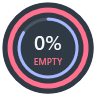
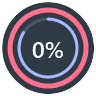
Simplify widget and refine rounded tray menu

diff --git a/src/CodexUsageTracker.App/WidgetWindow.xaml b/src/CodexUsageTracker.App/WidgetWindow.xaml
@@ -3,12 +3,9 @@
     <Button.Clip><EllipseGeometry Center="46,46" RadiusX="46" RadiusY="46"/></Button.Clip>
     <Button.Template><ControlTemplate TargetType="Button"><ContentPresenter/></ControlTemplate></Button.Template>
     <Grid Width="92" Height="92">
-      <Ellipse Fill="{DynamicResource GlassStrongBrush}" Stroke="{DynamicResource BorderBrush}" StrokeThickness="0.5"/>
+      <Ellipse Fill="{DynamicResource GlassStrongBrush}"/>
       <local:QuotaRing x:Name="Ring" Five="{Binding FiveValue}" Week="{Binding WeekValue}" FiveBrush="{Binding FiveBrush}" WeekBrush="{Binding WeekBrush}" FiveExhausted="{Binding FiveExhausted}" WeekExhausted="{Binding WeekExhausted}" Margin="3"/>
-      <StackPanel VerticalAlignment="Center" HorizontalAlignment="Center">
-        <TextBlock Text="{Binding FiveRemaining}" FontWeight="SemiBold" FontSize="20" HorizontalAlignment="Center"/>
-        <TextBlock Text="{Binding WidgetStatus}" FontSize="9" FontWeight="SemiBold" Foreground="{Binding OverallBrush}" HorizontalAlignment="Center"/>
-      </StackPanel>
+      <TextBlock Text="{Binding FiveRemaining}" FontWeight="Medium" FontSize="23" VerticalAlignment="Center" HorizontalAlignment="Center"/>
     </Grid>
   </Button>
 </Window>

diff --git a/src/CodexUsageTracker.App/TrayMenuRenderer.cs b/src/CodexUsageTracker.App/TrayMenuRenderer.cs
@@ -5,6 +5,19 @@ namespace CodexUsageTracker.App;
 
 internal sealed class TrayMenuRenderer : Forms.ToolStripProfessionalRenderer
 {
+    private static bool Dark => ColorFor("TextBrush").R > 128;
+    internal static Drawing.Color Background => Dark ? Drawing.Color.FromArgb(32, 32, 32) : Drawing.Color.FromArgb(250, 250, 250);
+    internal static Drawing.Color Foreground => Dark ? Drawing.Color.FromArgb(242, 242, 242) : Drawing.Color.FromArgb(30, 30, 30);
+    internal static Drawing.Drawing2D.GraphicsPath Rounded(Drawing.Rectangle bounds, int radius)
+    {
+        var path = new Drawing.Drawing2D.GraphicsPath();
+        var diameter = radius * 2;
+        path.AddArc(bounds.Left, bounds.Top, diameter, diameter, 180, 90);
+        path.AddArc(bounds.Right - diameter, bounds.Top, diameter, diameter, 270, 90);
+        path.AddArc(bounds.Right - diameter, bounds.Bottom - diameter, diameter, diameter, 0, 90);
+        path.AddArc(bounds.Left, bounds.Bottom - diameter, diameter, diameter, 90, 90);
+        path.CloseFigure(); return path;
+    }
     internal static Drawing.Color ColorFor(string resource)
     {
         var color = ((SolidColorBrush)Application.Current.FindResource(resource)).Color;
@@ -13,24 +26,49 @@ internal sealed class TrayMenuRenderer : Forms.ToolStripProfessionalRenderer
 
     protected override void OnRenderToolStripBackground(Forms.ToolStripRenderEventArgs e)
     {
-        using var brush = new Drawing.SolidBrush(ColorFor("GlassStrongBrush"));
-        e.Graphics.FillRectangle(brush, e.AffectedBounds);
+        e.Graphics.SmoothingMode = Drawing.Drawing2D.SmoothingMode.AntiAlias;
+        using var brush = new Drawing.SolidBrush(Background);
+        using var shape = Rounded(e.ToolStrip.ClientRectangle, 10 * e.ToolStrip.DeviceDpi / 96);
+        e.Graphics.FillPath(brush, shape);
     }
     protected override void OnRenderMenuItemBackground(Forms.ToolStripItemRenderEventArgs e)
     {
         if (!e.Item.Selected || !e.Item.Enabled) return;
-        using var brush = new Drawing.SolidBrush(ColorFor("ButtonHoverBrush"));
-        e.Graphics.FillRectangle(brush, new Drawing.Rectangle(3, 1, e.Item.Width - 6, e.Item.Height - 2));
+        using var brush = new Drawing.SolidBrush(Dark ? Drawing.Color.FromArgb(53, 53, 53) : Drawing.Color.FromArgb(233, 233, 233));
+        using var shape = Rounded(new Drawing.Rectangle(2, 1, e.Item.Width - 4, e.Item.Height - 2), 5);
+        e.Graphics.SmoothingMode = Drawing.Drawing2D.SmoothingMode.AntiAlias;
+        e.Graphics.FillPath(brush, shape);
     }
     protected override void OnRenderItemText(Forms.ToolStripItemTextRenderEventArgs e)
     {
-        e.TextColor = ColorFor(e.Item.Enabled ? "TextBrush" : "MutedBrush");
-        Forms.TextRenderer.DrawText(e.Graphics, e.Text, e.TextFont, e.TextRectangle, e.TextColor, e.TextFormat);
+        e.TextColor = e.Item.Enabled ? Foreground : Dark ? Drawing.Color.FromArgb(163, 163, 163) : Drawing.Color.FromArgb(103, 103, 103);
+        var bounds = e.TextRectangle;
+        var format = e.TextFormat;
+        if (e.Item is Forms.ToolStripMenuItem item && !string.IsNullOrEmpty(item.ShortcutKeyDisplayString) && e.Text == item.ShortcutKeyDisplayString)
+        {
+            bounds = new Drawing.Rectangle(10, bounds.Top, (e.ToolStrip?.ClientSize.Width ?? e.Item.Width) - 44, bounds.Height);
+            format = Forms.TextFormatFlags.Right | Forms.TextFormatFlags.VerticalCenter | Forms.TextFormatFlags.SingleLine;
+        }
+        else bounds.Offset(8, 0);
+        Forms.TextRenderer.DrawText(e.Graphics, e.Text, e.TextFont, bounds, e.TextColor, format);
     }
     protected override void OnRenderSeparator(Forms.ToolStripSeparatorRenderEventArgs e)
     {
-        using var pen = new Drawing.Pen(ColorFor("BorderBrush"));
-        e.Graphics.DrawLine(pen, 12, e.Item.Height / 2, e.Item.Width - 12, e.Item.Height / 2);
+        using var pen = new Drawing.Pen(Dark ? Drawing.Color.FromArgb(64, 64, 64) : Drawing.Color.FromArgb(222, 222, 222));
+        e.Graphics.DrawLine(pen, 2, e.Item.Height / 2, e.Item.Width - 2, e.Item.Height / 2);
     }
     protected override void OnRenderToolStripBorder(Forms.ToolStripRenderEventArgs e) { }
+}
+
+internal sealed class RoundedTrayMenu : Forms.ContextMenuStrip
+{
+    protected override void OnSizeChanged(EventArgs e)
+    {
+        base.OnSizeChanged(e);
+        if (Width < 20 || Height < 20) return;
+        using var shape = TrayMenuRenderer.Rounded(ClientRectangle, 10 * DeviceDpi / 96);
+        var old = Region;
+        Region = new Drawing.Region(shape);
+        old?.Dispose();
+    }
 }

diff --git a/src/CodexUsageTracker.App/TrackerController.cs b/src/CodexUsageTracker.App/TrackerController.cs
@@ -17,7 +17,7 @@ public sealed class TrackerController : IDisposable
     private readonly ResetRefreshSchedule resetRefresh = new();
     private string lastTrayState = "";
     private readonly Forms.ToolStripMenuItem trayQuota;
-    private readonly Forms.ToolStripMenuItem trayStatus;
+    private readonly Forms.ToolStripMenuItem trayWeek;
     private readonly Forms.ToolStripMenuItem trayFloating;
     private readonly Forms.NotifyIcon tray;
     private readonly DispatcherTimer timer;
@@ -38,17 +38,18 @@ public sealed class TrackerController : IDisposable
         repository = new UsageRepository(Path.Combine(dataDirectory, "usage.db"));
         widget = new WidgetWindow(this); details = new DetailsWindow(this);
         tray = new Forms.NotifyIcon { Text = "Codex Usage Tracker", Visible = true, Icon = Drawing.SystemIcons.Information };
-        var menu = new Forms.ContextMenuStrip
+        var menu = new RoundedTrayMenu
         {
             Renderer = new TrayMenuRenderer(), ShowImageMargin = false,
-            Font = new Drawing.Font("Segoe UI", 10), Padding = new Forms.Padding(6),
+            Font = new Drawing.Font("Segoe UI", 9), Padding = new Forms.Padding(8),
             MinimumSize = new Drawing.Size(260, 0)
         };
-        trayQuota = new Forms.ToolStripMenuItem("Codex quota", null, (_, _) => ShowDetails());
-        trayStatus = new Forms.ToolStripMenuItem("Connecting…") { Enabled = false };
-        menu.Items.Add(trayQuota); menu.Items.Add(trayStatus);
+        menu.Items.Add(new Forms.ToolStripMenuItem("Quota remaining") { Enabled = false });
+        trayQuota = new Forms.ToolStripMenuItem("5-hour", null, (_, _) => ShowDetails());
+        trayWeek = new Forms.ToolStripMenuItem("Weekly", null, (_, _) => ShowDetails());
+        menu.Items.Add(trayQuota); menu.Items.Add(trayWeek);
         menu.Items.Add(new Forms.ToolStripSeparator());
-        menu.Items.Add("Usage overview", null, (_, _) => ShowDetails());
+        menu.Items.Add("Open usage details", null, (_, _) => ShowDetails());
         menu.Items.Add("Refresh now", null, async (_, _) => await RefreshAsync());
         menu.Items.Add("Settings", null, (_, _) => ShowSettings());
         trayFloating = new Forms.ToolStripMenuItem("Hide floating circle", null, (_, _) =>
@@ -57,7 +58,7 @@ public sealed class TrackerController : IDisposable
         menu.Items.Add(new Forms.ToolStripSeparator());
         menu.Items.Add("Quit", null, (_, _) => Application.Current.Shutdown());
         tray.ContextMenuStrip = menu;
-        foreach (Forms.ToolStripItem item in menu.Items) item.Padding = new Forms.Padding(9, 7, 9, 7);
+        foreach (Forms.ToolStripItem item in menu.Items) item.Padding = item is Forms.ToolStripSeparator ? new Forms.Padding(0, 4, 0, 4) : new Forms.Padding(10, 5, 10, 5);
         menu.Opening += (_, _) => UpdateTrayMenu();
         tray.MouseClick += (_, e) => { if (e.Button == Forms.MouseButtons.Left) ToggleDetails(); };
         timer = new DispatcherTimer { Interval = TimeSpan.FromSeconds(1) };
@@ -165,11 +166,11 @@ public sealed class TrackerController : IDisposable
     }
     private void UpdateTrayMenu()
     {
-        trayQuota.Text = $"5h  {ViewModel.FiveRemaining}    ·    Week  {ViewModel.WeekRemaining}";
-        trayStatus.Text = $"{ViewModel.WidgetStatus}  ·  {ViewModel.Status}";
+        trayQuota.ShortcutKeyDisplayString = ViewModel.FiveRemaining;
+        trayWeek.ShortcutKeyDisplayString = ViewModel.WeekRemaining;
         trayFloating.Text = Settings.FloatingWidget ? "Hide floating circle" : "Show floating circle";
         if (tray.ContextMenuStrip is { } menu)
-        { menu.BackColor = TrayMenuRenderer.ColorFor("GlassStrongBrush"); menu.ForeColor = TrayMenuRenderer.ColorFor("TextBrush"); }
+        { menu.BackColor = TrayMenuRenderer.Background; menu.ForeColor = TrayMenuRenderer.Foreground; }
     }
     [DllImport("user32.dll")] [return: MarshalAs(UnmanagedType.Bool)] private static extern bool DestroyIcon(IntPtr handle);
     public void ToggleDetails() { if (details.IsVisible) details.Hide(); else ShowDetails(); }

diff --git a/README.md b/README.md
@@ -2,7 +2,7 @@
 
 A small, native Windows companion for keeping an eye on your remaining Codex quota. Built with **C# · .NET 8 · WPF** for **Windows 10/11 x64**.
 
-The floating circle stays above other windows while Codex is running. Click it for the detailed panel; drag it to move. The outer teal ring shows five-hour quota remaining, the inner purple ring shows weekly quota remaining, and the center shows the five-hour percentage. The system tray remains available when the circle is hidden.
+The floating circle stays above other windows while Codex is running. Click it for the detailed panel; drag it to move. The outer teal ring shows five-hour quota remaining, the inner purple ring shows weekly quota remaining, and the center shows the five-hour percentage. The circle shows only the percentage and rings, without a status caption. The rounded, neutral tray menu remains available when the circle is hidden.
 
 <img src="docs/images/widget.png" width="96" alt="Circular quota widget using synthetic preview data" />
 <img src="docs/images/details.png" width="420" alt="Detailed quota panel using synthetic preview data" />
@@ -13,12 +13,12 @@ Screenshots use clearly marked synthetic preview values, not account data.
 
 - Always-on-top circular widget with a clean circular edge and no clipped shadow; click or keyboard-activate to open details. Hold and drag anywhere on the circle to move it; the position is saved on release. Dragging never opens the details panel.
 - Borderless translucent panels with 40% desktop visibility, rounded glass cards, and light/dark palettes. A single 26-DIP clip keeps the background and content corners aligned; text and controls retain their own opacity.
-- Theme-aware system tray menu with quota summary, status, refresh, visibility toggle, settings, and quit; a clear status ring replaces the miniature double-ring icon.
+- Theme-aware system tray menu with aligned quota values, refresh, visibility toggle, settings, and quit; a clear status ring replaces the miniature double-ring icon.
 - By default the circle is visible only while a Codex process runs; tray-only and always-visible modes are configurable.
 - Five-hour and weekly **remaining** quota, used percentages, and reset countdowns.
 - Pace estimate comparing quota consumed with elapsed time in each reported window.
 - Local SQLite history, retained for **seven days**; chart leaves gaps across missing readings and resets.
-- Configurable warning and critical alerts, defaulting to **25%** and **10%** remaining. Rings and bars turn amber/red; exhausted quota keeps a full red outline and an EMPTY label. Persistent panel warnings remain visible even if Windows suppresses notifications.
+- Configurable warning and critical alerts, defaulting to **25%** and **10%** remaining. Rings and bars turn amber/red; exhausted quota keeps a full red outline at 0%. Persistent panel warnings remain visible even if Windows suppresses notifications.
 - Light, dark, and system appearance; remembered widget position. Settings replaces usage in the same frame with Back navigation. The panel chooses an available side of the circle and follows it when dragged; no widget hover tooltip.
 - Explicit LIVE, LOCAL, STALE, RESET DUE, and N/A states, plus last-reading timestamp and source details.
 - No API key, browser cookies, tracker telemetry, or prompt/response storage.
